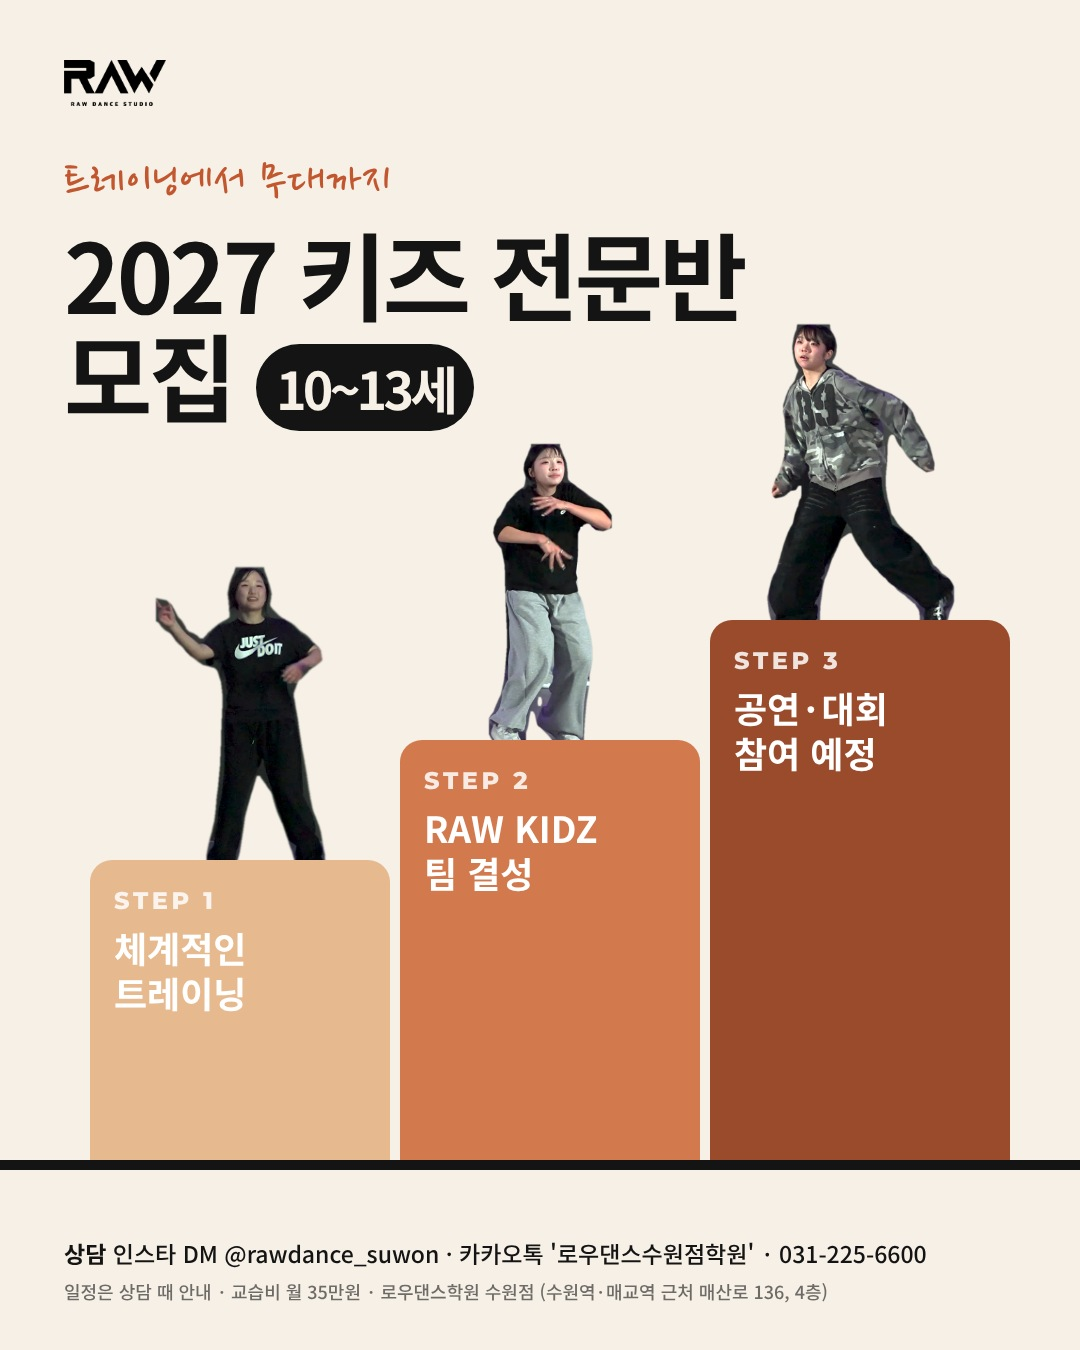
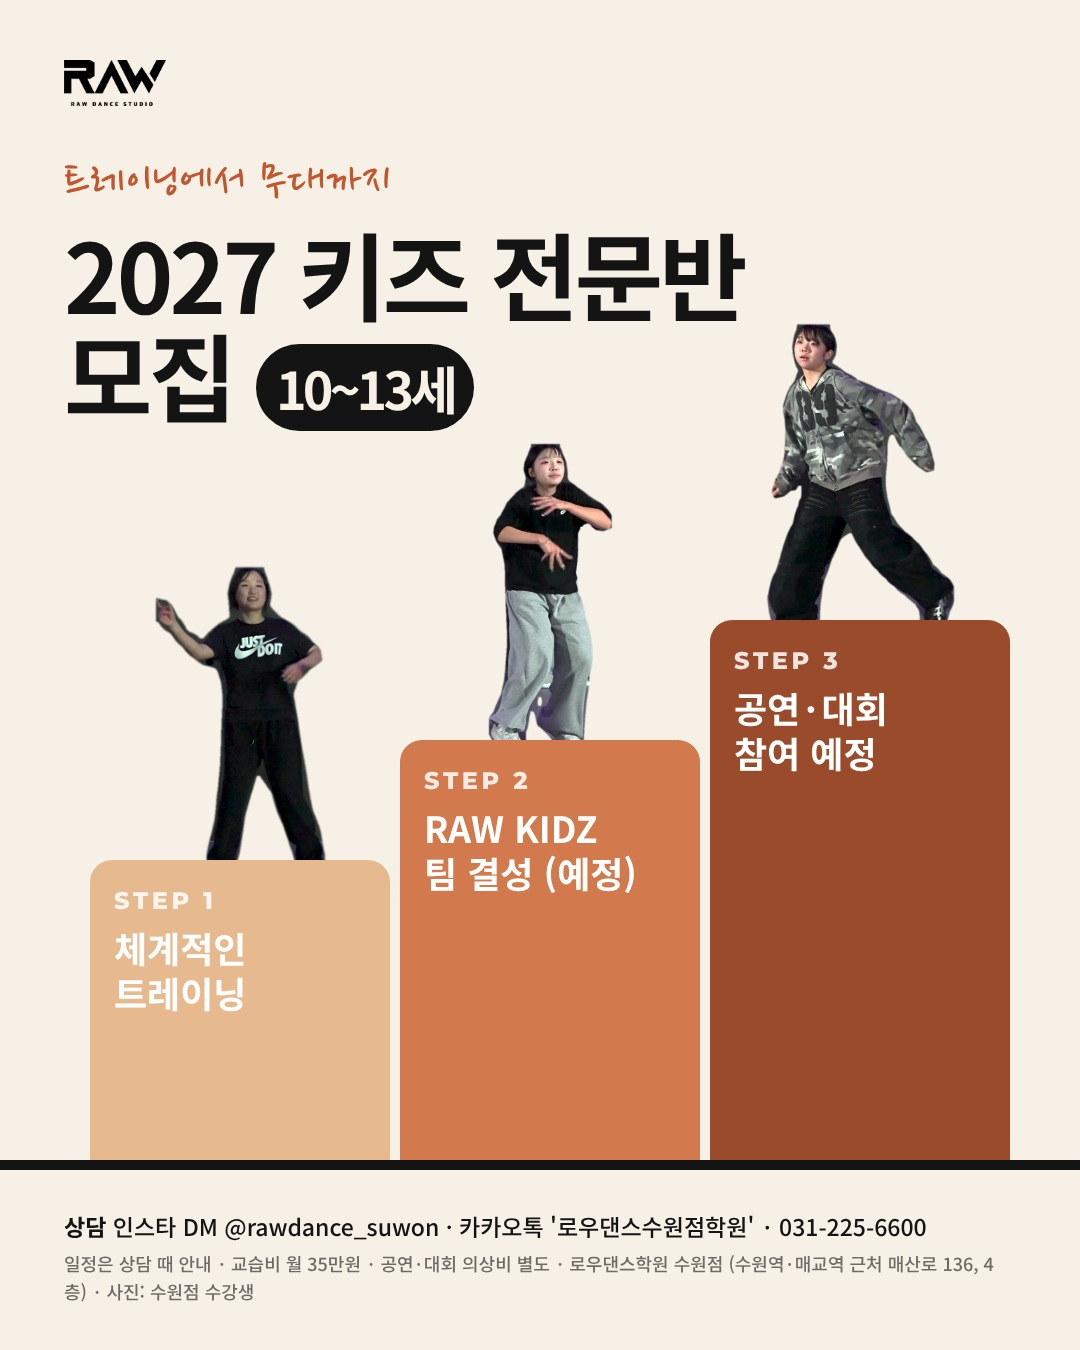
키즈전문반 포스터 시안: 검수 반영(사진 수강생 표기, 의상비 별도, '예정' 표기, 3번 카드 라벨·1기 보류)
Claude-Session: https://claude.ai/code/session_01CMPXWNa21Fqq6srPZpa27D

Changed region(s): [[0.0611, 0.9022, 0.8556, 0.9644], [0.4889, 0.6222, 0.5806, 0.6844], [0.8861, 0.9333, 0.9167, 0.9644]]

diff --git a/content/2026-11-19_kidz-pro-poster/poster.html b/content/2026-11-19_kidz-pro-poster/poster.html
@@ -17,7 +17,7 @@ body{background:#ddd}
 const c=+(new URLSearchParams(location.search).get('c')||1), story=new URLSearchParams(location.search).has('s');
 const K=n=>`img/k_${n}.png`;
 const FOOT=(col='#141414')=>`<div class="foot" style="color:${col}"><b>상담</b> 인스타 DM @rawdance_suwon · 카카오톡 '로우댄스수원점학원' · 031-225-6600
-<small>일정은 상담 때 안내 · 교습비 월 35만원 · 로우댄스학원 수원점 (수원역·매교역 근처 매산로 136, 4층)</small></div>`;
+<small>일정은 상담 때 안내 · 교습비 월 35만원 · 공연·대회 의상비 별도 · 로우댄스학원 수원점 (수원역·매교역 근처 매산로 136, 4층) · 사진: 수원점 수강생</small></div>`;
 const STEPS=(col,bg)=>`<div style="display:flex;gap:10px;align-items:center;font-size:25px;font-weight:800;color:${col}">
 <span style="background:${bg};padding:10px 18px;border-radius:999px">트레이닝</span>→<span style="background:${bg};padding:10px 18px;border-radius:999px">RAW KIDZ 팀</span>→<span style="background:${bg};padding:10px 18px;border-radius:999px">공연·대회</span></div>`;
 const V={};
@@ -26,7 +26,7 @@ const V={};
 V[1]=`<div class="P" style="background:#F3EEE5">
  <div style="position:absolute;left:64px;top:60px;width:390px;height:1140px;background:#141414;padding:22px 22px 70px;display:grid;grid-template-rows:repeat(4,1fr);gap:16px;transform:rotate(-2.2deg);box-shadow:0 30px 60px rgba(0,0,0,.18)">
   ${[['84.5_2','#FF6B4A'],['83_2','#C9B8FF'],['156_0','#9EE2C6'],['138.5_0','#FFC2A6']].map(([k,bg])=>`<div style="background:${bg};overflow:hidden;position:relative"><img src="${K(k)}" style="position:absolute;left:50%;top:6%;height:160%;transform:translateX(-50%)"></div>`).join('')}
-  <div style="position:absolute;left:0;right:0;bottom:20px;text-align:center;color:#fff;font:600 22px Montserrat;letter-spacing:.3em">RAW KIDZ · 2027</div>
+  <div style="position:absolute;left:0;right:0;bottom:20px;text-align:center;color:#fff;font:600 22px Montserrat;letter-spacing:.3em">NEXT RAW KIDZ</div>
  </div>
  <div style="position:absolute;left:520px;right:60px;top:84px">
   <img class="logo" src="img/raw-logo-tight.png">
@@ -51,7 +51,7 @@ V[2]=`<div class="P" style="background:#FBFAF4;background-image:linear-gradient(
  <div style="position:absolute;left:64px;top:600px;width:280px">
   <div style="font-size:52px;font-weight:800;line-height:1.15;letter-spacing:-.03em">2027<br>키즈 전문반<br>모집</div>
   <div style="margin-top:22px;font-size:25px;line-height:1.6;font-weight:500">체계적인 트레이닝 →<br><b style="font-weight:800">RAW KIDZ 팀</b>으로<br>공연·대회 참여 예정</div>
-  <div class="hand" style="margin-top:26px;font-size:40px;color:#FF3D7F">무대까지 같이 가요 ↗</div>
+  <div class="hand" style="margin-top:26px;font-size:40px;color:#FF3D7F">무대를 목표로<br>같이 연습해요 ↗</div>
  </div>
  ${FOOT()}
 </div>`;
@@ -60,20 +60,19 @@ V[2]=`<div class="P" style="background:#FBFAF4;background-image:linear-gradient(
 V[3]=`<div class="P" style="background:#FFFFFF">
  <img class="logo" src="img/raw-logo-tight.png" style="position:absolute;left:64px;top:60px">
  <div style="position:absolute;right:64px;top:66px;font:800 24px 'Bricolage Grotesque';letter-spacing:.06em">ROSTER 2027</div>
- <div style="position:absolute;left:64px;top:150px;font:800 118px/0.95 'Bricolage Grotesque';letter-spacing:-.04em">RAW KIDZ<br><span style="color:#B9B9B9">1기 멤버 모집</span></div>
+ <div style="position:absolute;left:64px;top:150px;font:800 118px/0.95 'Bricolage Grotesque';letter-spacing:-.04em">RAW KIDZ<br><span style="color:#B9B9B9">키즈 전문반 모집</span></div>
  <div style="position:absolute;left:64px;top:420px;display:grid;grid-template-columns:repeat(4,222px);gap:18px">
   ${[['156_1','#FFD9C7','01'],['138.5_0','#D7E9FF','02'],['83_2','#E4DBFF','03']].map(([k,bg,n])=>`<div style="height:460px;border-radius:26px;background:${bg};position:relative;overflow:hidden">
    <img src="${K(k)}" style="position:absolute;left:50%;bottom:-70px;height:440px;transform:translateX(-50%)">
    <div style="position:absolute;right:16px;top:12px;font:800 40px 'Bricolage Grotesque'">${n}</div>
-   <div style="position:absolute;left:0;right:0;bottom:0;padding:12px 16px;background:rgba(255,255,255,.88);font:700 16px Montserrat;letter-spacing:.1em;white-space:nowrap">RAW KIDZ MEMBER</div></div>`).join('')}
+   <div style="position:absolute;left:0;right:0;bottom:0;padding:12px 16px;background:rgba(255,255,255,.88);font:700 16px Montserrat;letter-spacing:.06em;white-space:nowrap">수원점 수강생</div></div>`).join('')}
   <div style="height:460px;border-radius:26px;border:4px dashed #141414;display:flex;flex-direction:column;align-items:center;justify-content:center;text-align:center">
    <div style="font:800 40px 'Bricolage Grotesque'">04</div><div style="font-size:84px;line-height:1.1">?</div>
    <div style="font-size:28px;font-weight:800;line-height:1.35">이 자리,<br>우리 아이 자리</div></div>
  </div>
  <div style="position:absolute;left:64px;top:930px;right:64px">
   <div style="font-size:40px;font-weight:800;letter-spacing:-.02em">2027 키즈 전문반 · 모집 대상 <span style="background:#141414;color:#fff;padding:2px 14px;border-radius:10px">10~13세</span></div>
-  <div style="margin-top:30px">${STEPS('#141414','#F1F1F1')}</div>
-  <div style="margin-top:20px;font-size:25px;font-weight:500;color:#555">체계적인 트레이닝 후 RAW KIDZ 팀으로 공연·대회 참여 예정</div>
+  <div style="margin-top:30px;font-size:25px;font-weight:500;color:#555">체계적인 트레이닝 후 RAW KIDZ 팀으로 공연·대회 참여 예정</div>
  </div>
  ${FOOT()}
 </div>`;
@@ -91,10 +90,10 @@ V[4]=`<div class="P" style="background:linear-gradient(180deg,#FFE7D6 0%,#FFF4EA
  </div>
  <div style="position:absolute;right:64px;top:520px;width:270px;text-align:right">
   <div style="font-size:26px;line-height:1.55;font-weight:500">체계적인<br>트레이닝 후</div>
-  <div style="margin-top:18px;font-size:40px;font-weight:800;line-height:1.2">RAW KIDZ<br>팀 결성</div>
+  <div style="margin-top:18px;font-size:40px;font-weight:800;line-height:1.2">RAW KIDZ<br>팀 결성 후</div>
   <div style="margin-top:18px;font-size:26px;line-height:1.55;font-weight:500">공연·대회<br>참여 예정</div>
  </div>
- <div style="position:absolute;right:70px;top:860px;width:190px;height:190px;border-radius:50%;background:#141414;color:#fff;display:flex;align-items:center;justify-content:center;text-align:center;transform:rotate(-10deg);font-size:34px;font-weight:800;line-height:1.15">RAW KIDZ<br>1기</div>
+ <div style="position:absolute;right:70px;top:860px;width:190px;height:190px;border-radius:50%;background:#141414;color:#fff;display:flex;align-items:center;justify-content:center;text-align:center;transform:rotate(-10deg);font-size:34px;font-weight:800;line-height:1.15">NEW<br>2027</div>
  <div style="position:absolute;left:0;right:0;bottom:0;height:260px;background:linear-gradient(transparent,#FFF4EA 55%)"></div>
  ${FOOT()}
 </div>`;
@@ -106,7 +105,7 @@ V[5]=`<div class="P" style="background:#F6F0E6">
   <div class="hand" style="font-size:52px;color:#C2562F">트레이닝에서 무대까지</div>
   <div style="margin-top:8px;font-size:96px;font-weight:800;line-height:1.05;letter-spacing:-.04em">2027 키즈 전문반<br>모집 <span style="font-size:52px;vertical-align:middle;background:#141414;color:#F6F0E6;padding:6px 20px;border-radius:999px">10~13세</span></div>
  </div>
- ${[['84.5_2','#E7B98F',90,'STEP 1','체계적인<br>트레이닝',300],['156_1','#D27A4E',400,'STEP 2','RAW KIDZ<br>팀 결성',420],['156_0','#9A4B2C',710,'STEP 3','공연·대회<br>참여 예정',540]].map(([k,bg,x,st,txt,h])=>`
+ ${[['84.5_2','#E7B98F',90,'STEP 1','체계적인<br>트레이닝',300],['156_1','#D27A4E',400,'STEP 2','RAW KIDZ<br>팀 결성 (예정)',420],['156_0','#9A4B2C',710,'STEP 3','공연·대회<br>참여 예정',540]].map(([k,bg,x,st,txt,h])=>`
   <img src="${K(k)}" style="position:absolute;left:${x+150}px;bottom:${190+h-26}px;height:330px;transform:translateX(-50%)">
   <div style="position:absolute;left:${x}px;bottom:190px;width:300px;height:${h}px;background:${bg};border-radius:22px 22px 0 0;padding:26px 24px;color:#fff">
    <div style="font:800 24px Montserrat;letter-spacing:.15em;opacity:.85">${st}</div>
